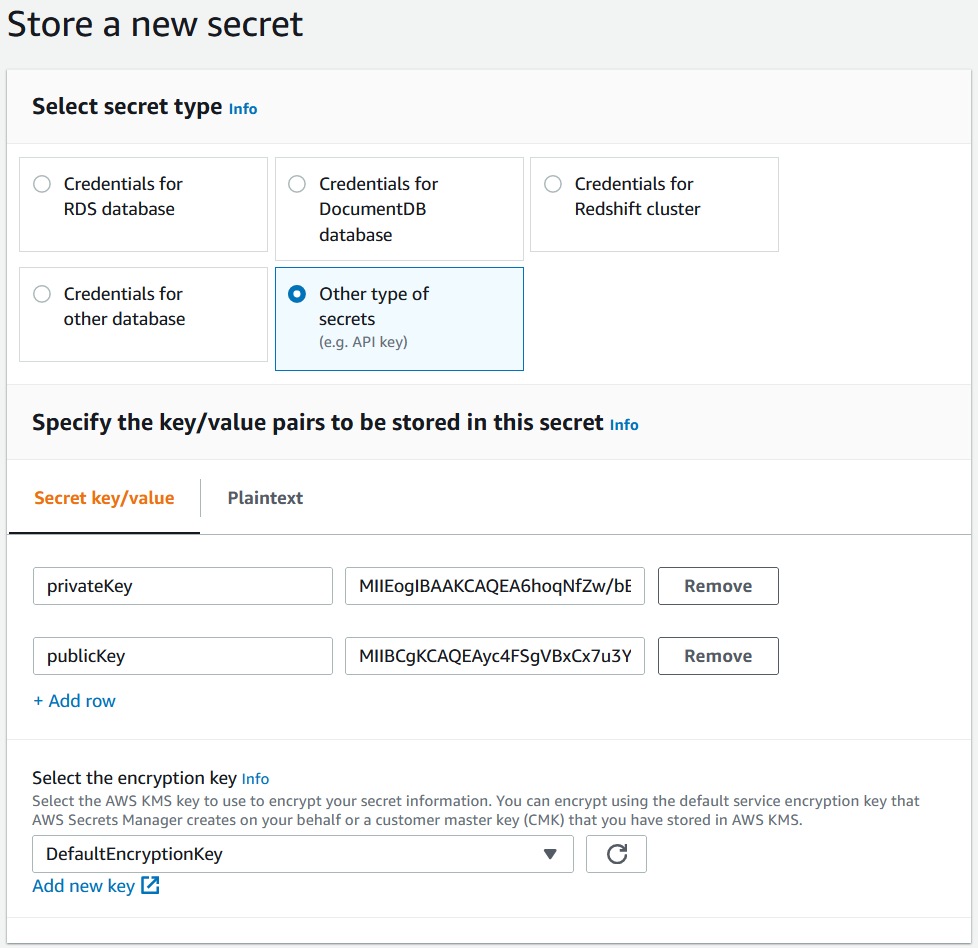
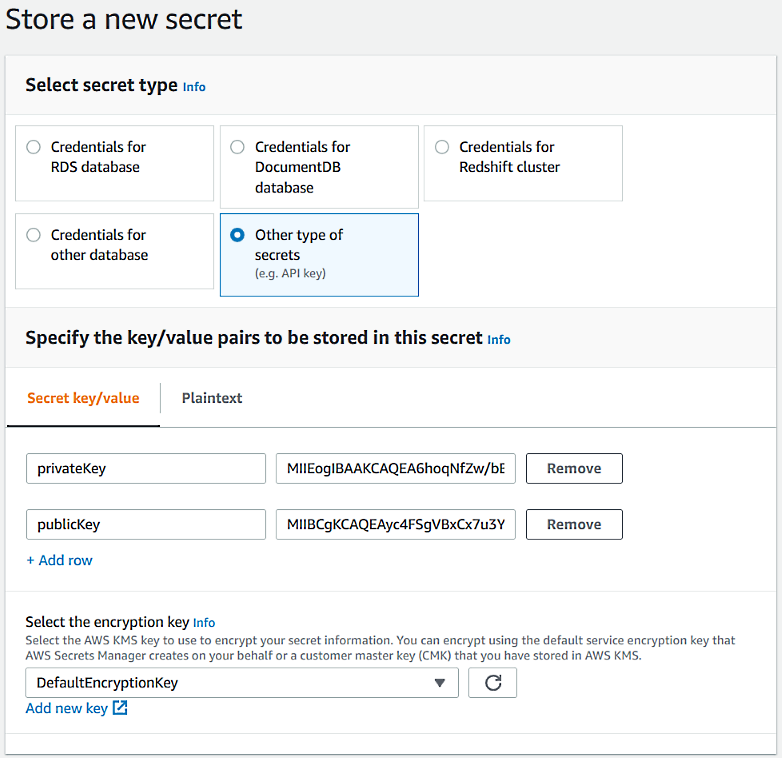
resized image and fixed typo

diff --git a/README.md b/README.md
@@ -74,7 +74,7 @@ applications use the same Lambda function to generate tokens. Go crazy!
 
 ### Create an RSA key pair
 
-> *Note: if you already have an RSA keypair in base64 format, you can skip this.**
+> *Note: if you already have an RSA keypair in base64 format, you can skip this.*
 
 From a Windows 10 or Linux command prompt/terminal, use ssh-keygen to create a key pair. The code I used 
 in the JwtBuilder class is hardcoded to RSA, but you can obviously change that.
